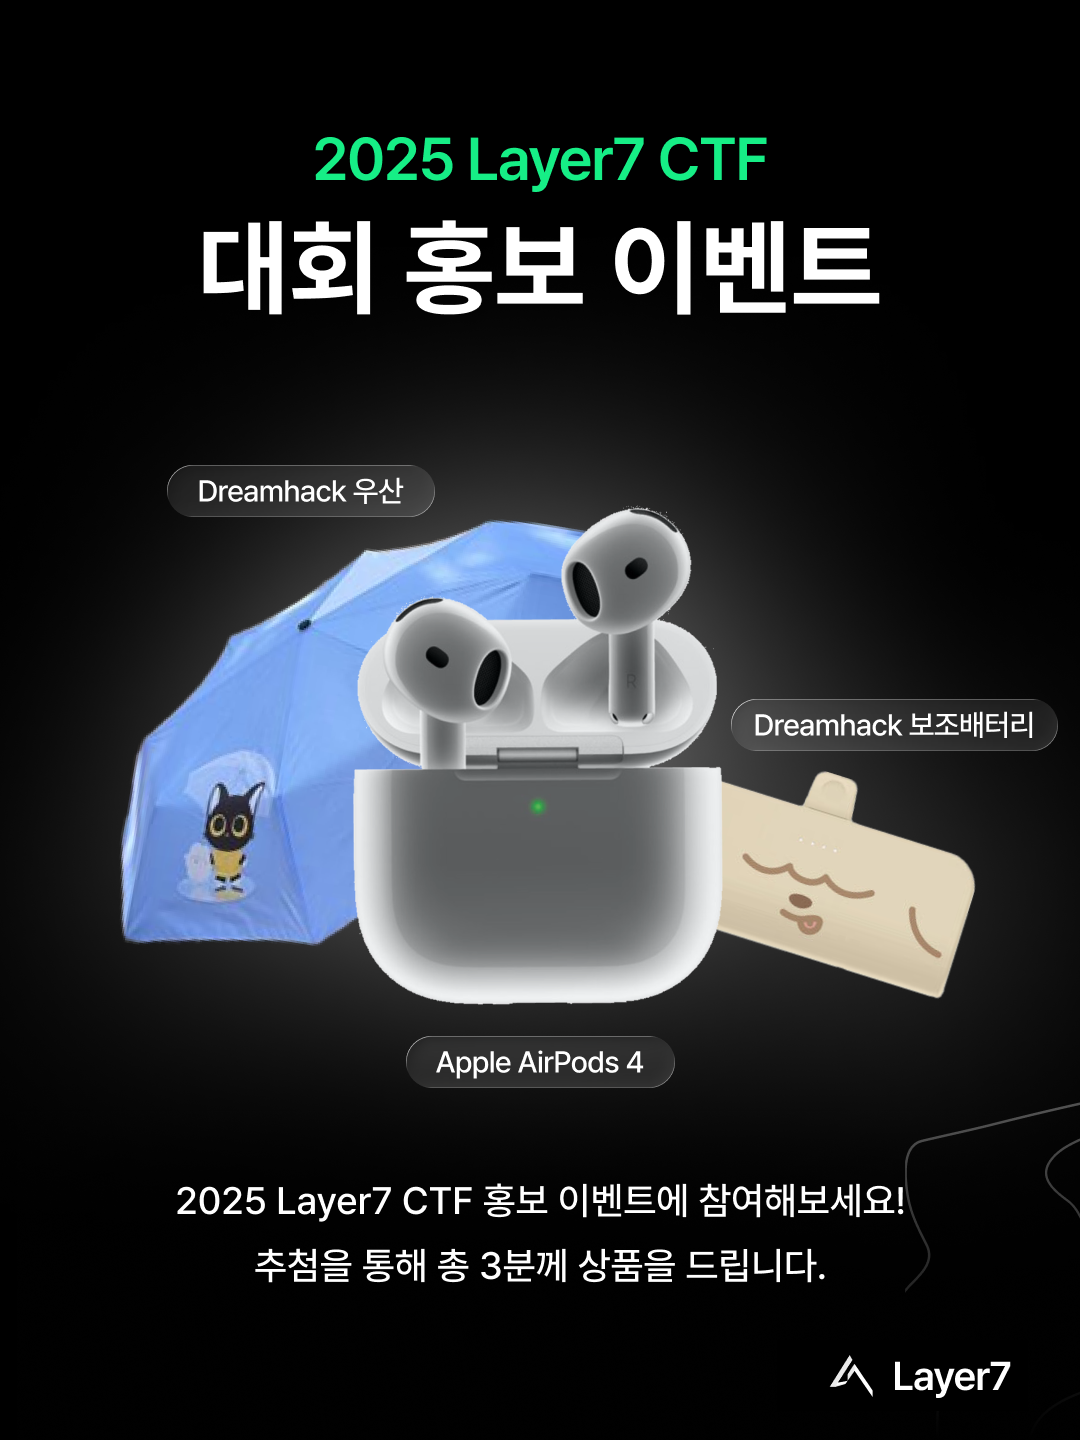
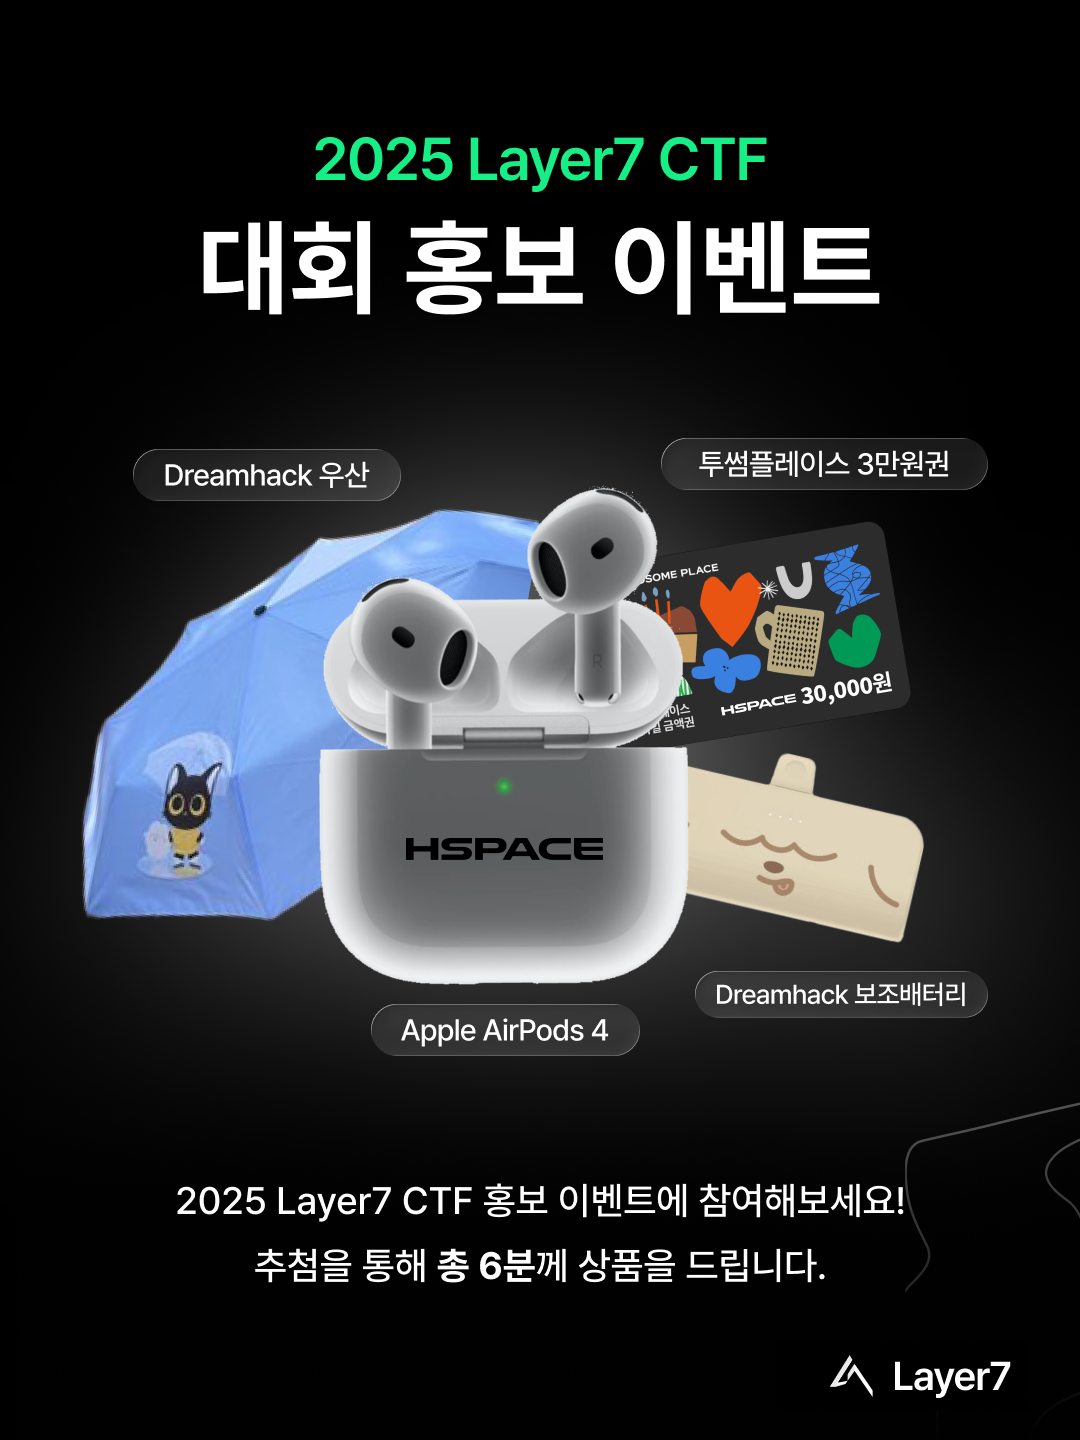
event

Changed region(s): [[0.0611, 0.2812, 0.9778, 0.7812], [0.3972, 0.875, 0.4889, 0.9062]]

diff --git a/src/posts/대회 홍보 이벤트.md b/src/posts/대회 홍보 이벤트.md
@@ -1,0 +1,22 @@
+---
+title: 대회 홍보 이벤트
+date: 2025-10-24
+---
+
+# 참여 마감까지 D-19, 2025 Layer7 CTF를 함께 알려주세요!
+
+2010년부터 시작된 Layer7 CTF가 어느덧 **15주년**을 맞이했습니다. 
+
+이를 기념해, **여러분과 함께하는 홍보 이벤트**를 준비했습니다. 주변에 대회를 널리 홍보하고, 푸짐한 선물을 받아보세요!
+## 🎁 이벤트 상품
+- **Apple AirPods 4** (노이즈캔슬링)
+- **Dreamhack 우산**
+- **Dreamhack 보조배터리**
+- **투썸플레이스 3만원 상품권**
+
+대회 상금과 상품 외에도 위의 특별 상품들을 받을 수 있는 기회이니 많은 관심 부탁드립니다. 
+더 자세한 이벤트 내용은 Layer7 공식 인스타그램에서 확인하실 수 있습니다.
+
+https://www.instagram.com/p/DQL0oyoE4F1/?igsh=djBhZHk5NWJtOWlo
+
+<img src="/images/event_instagram.png" alt="인스타그램 이벤트 이미지" width=400px height=550px>
